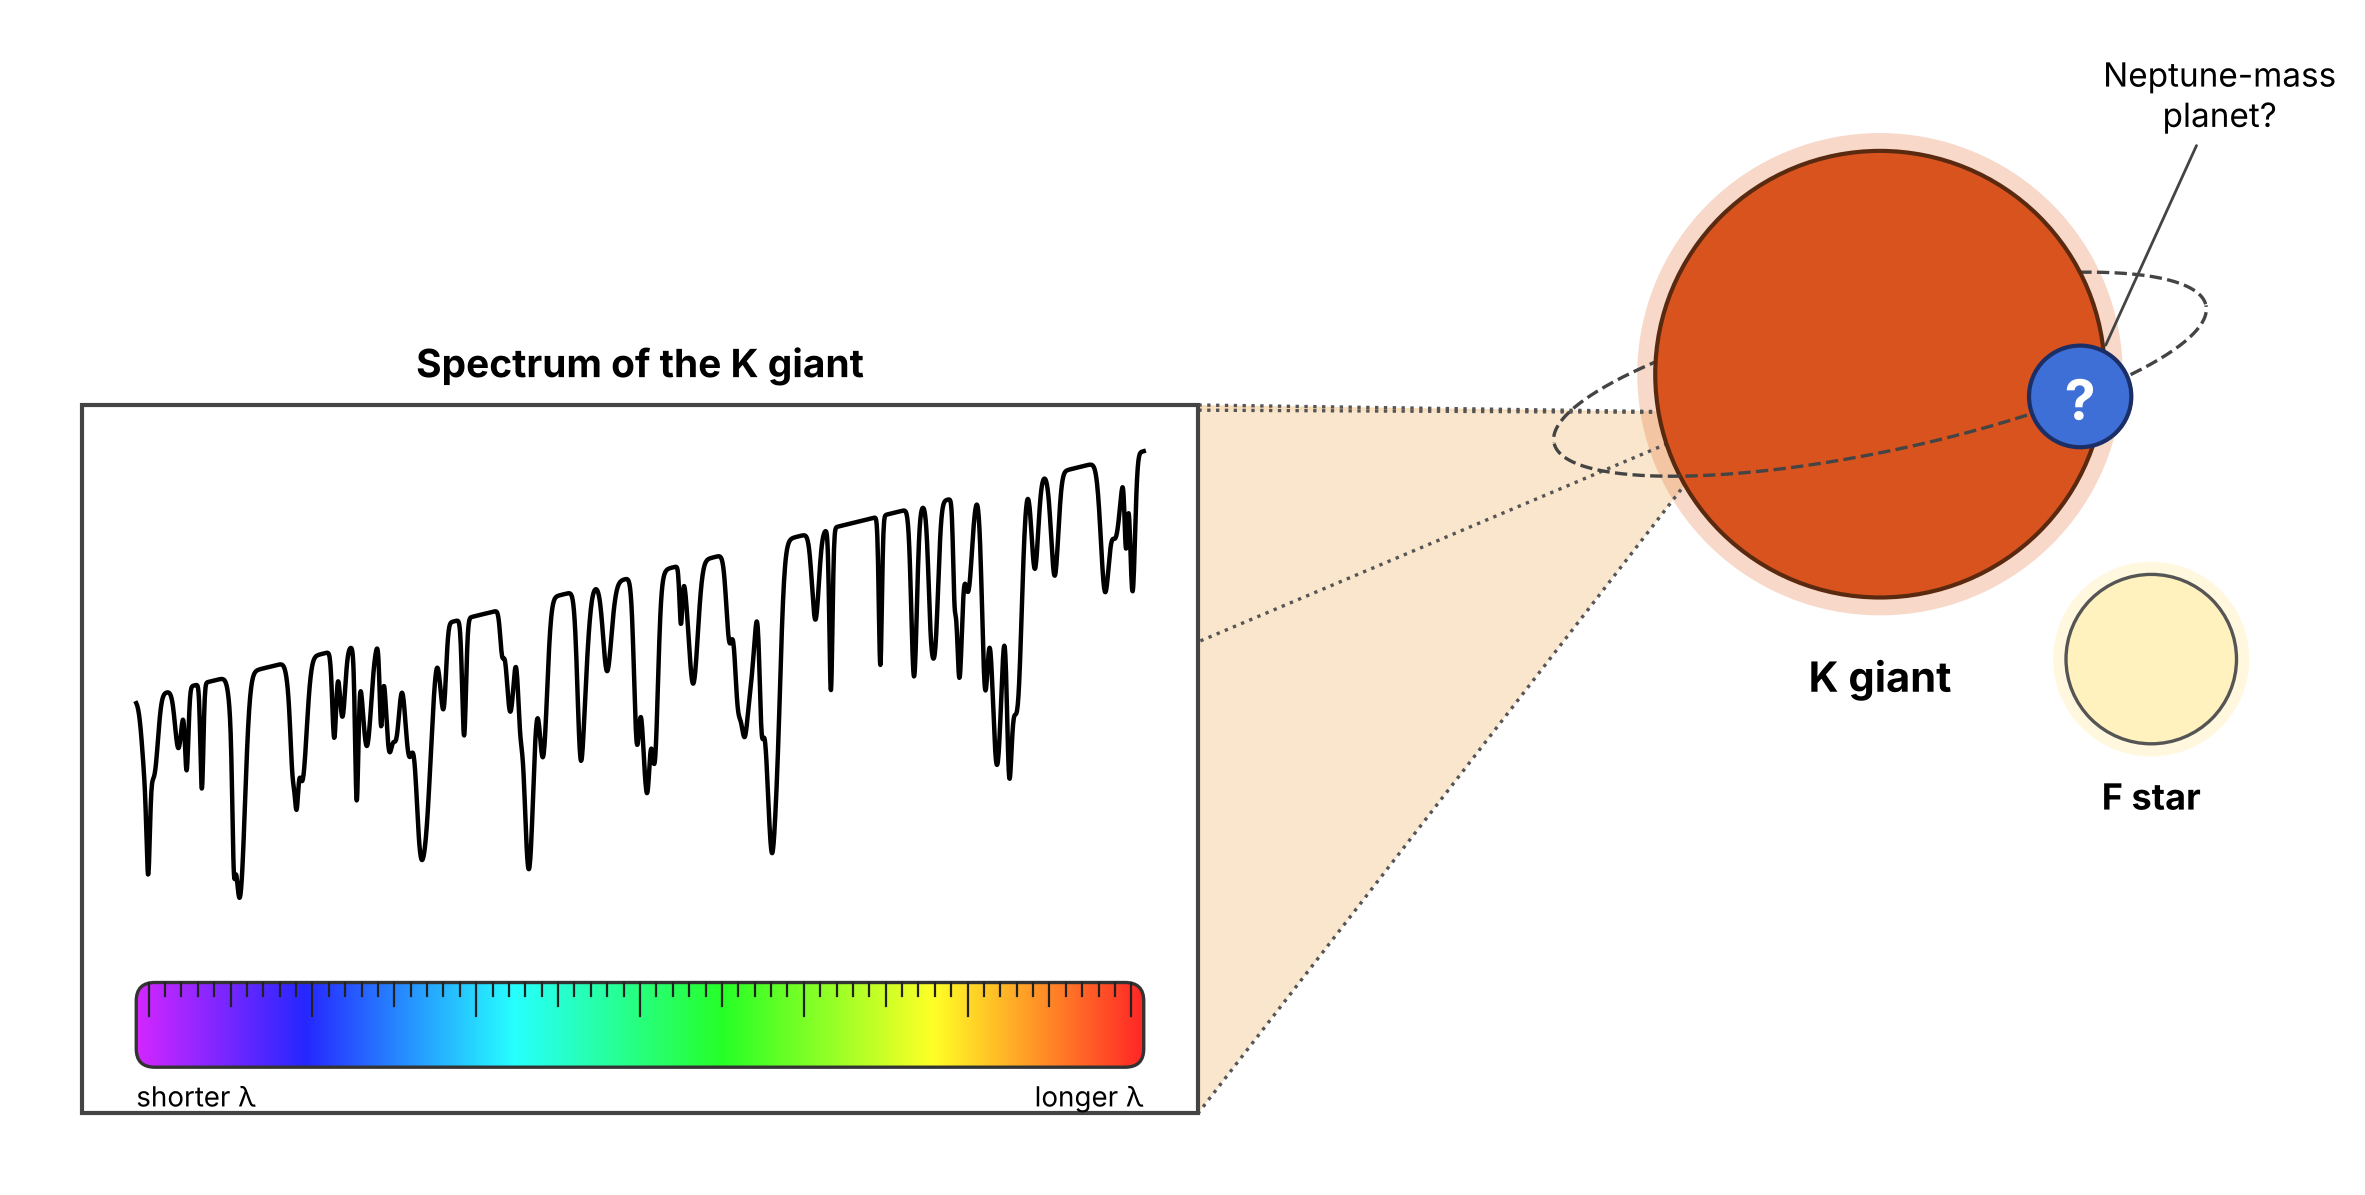
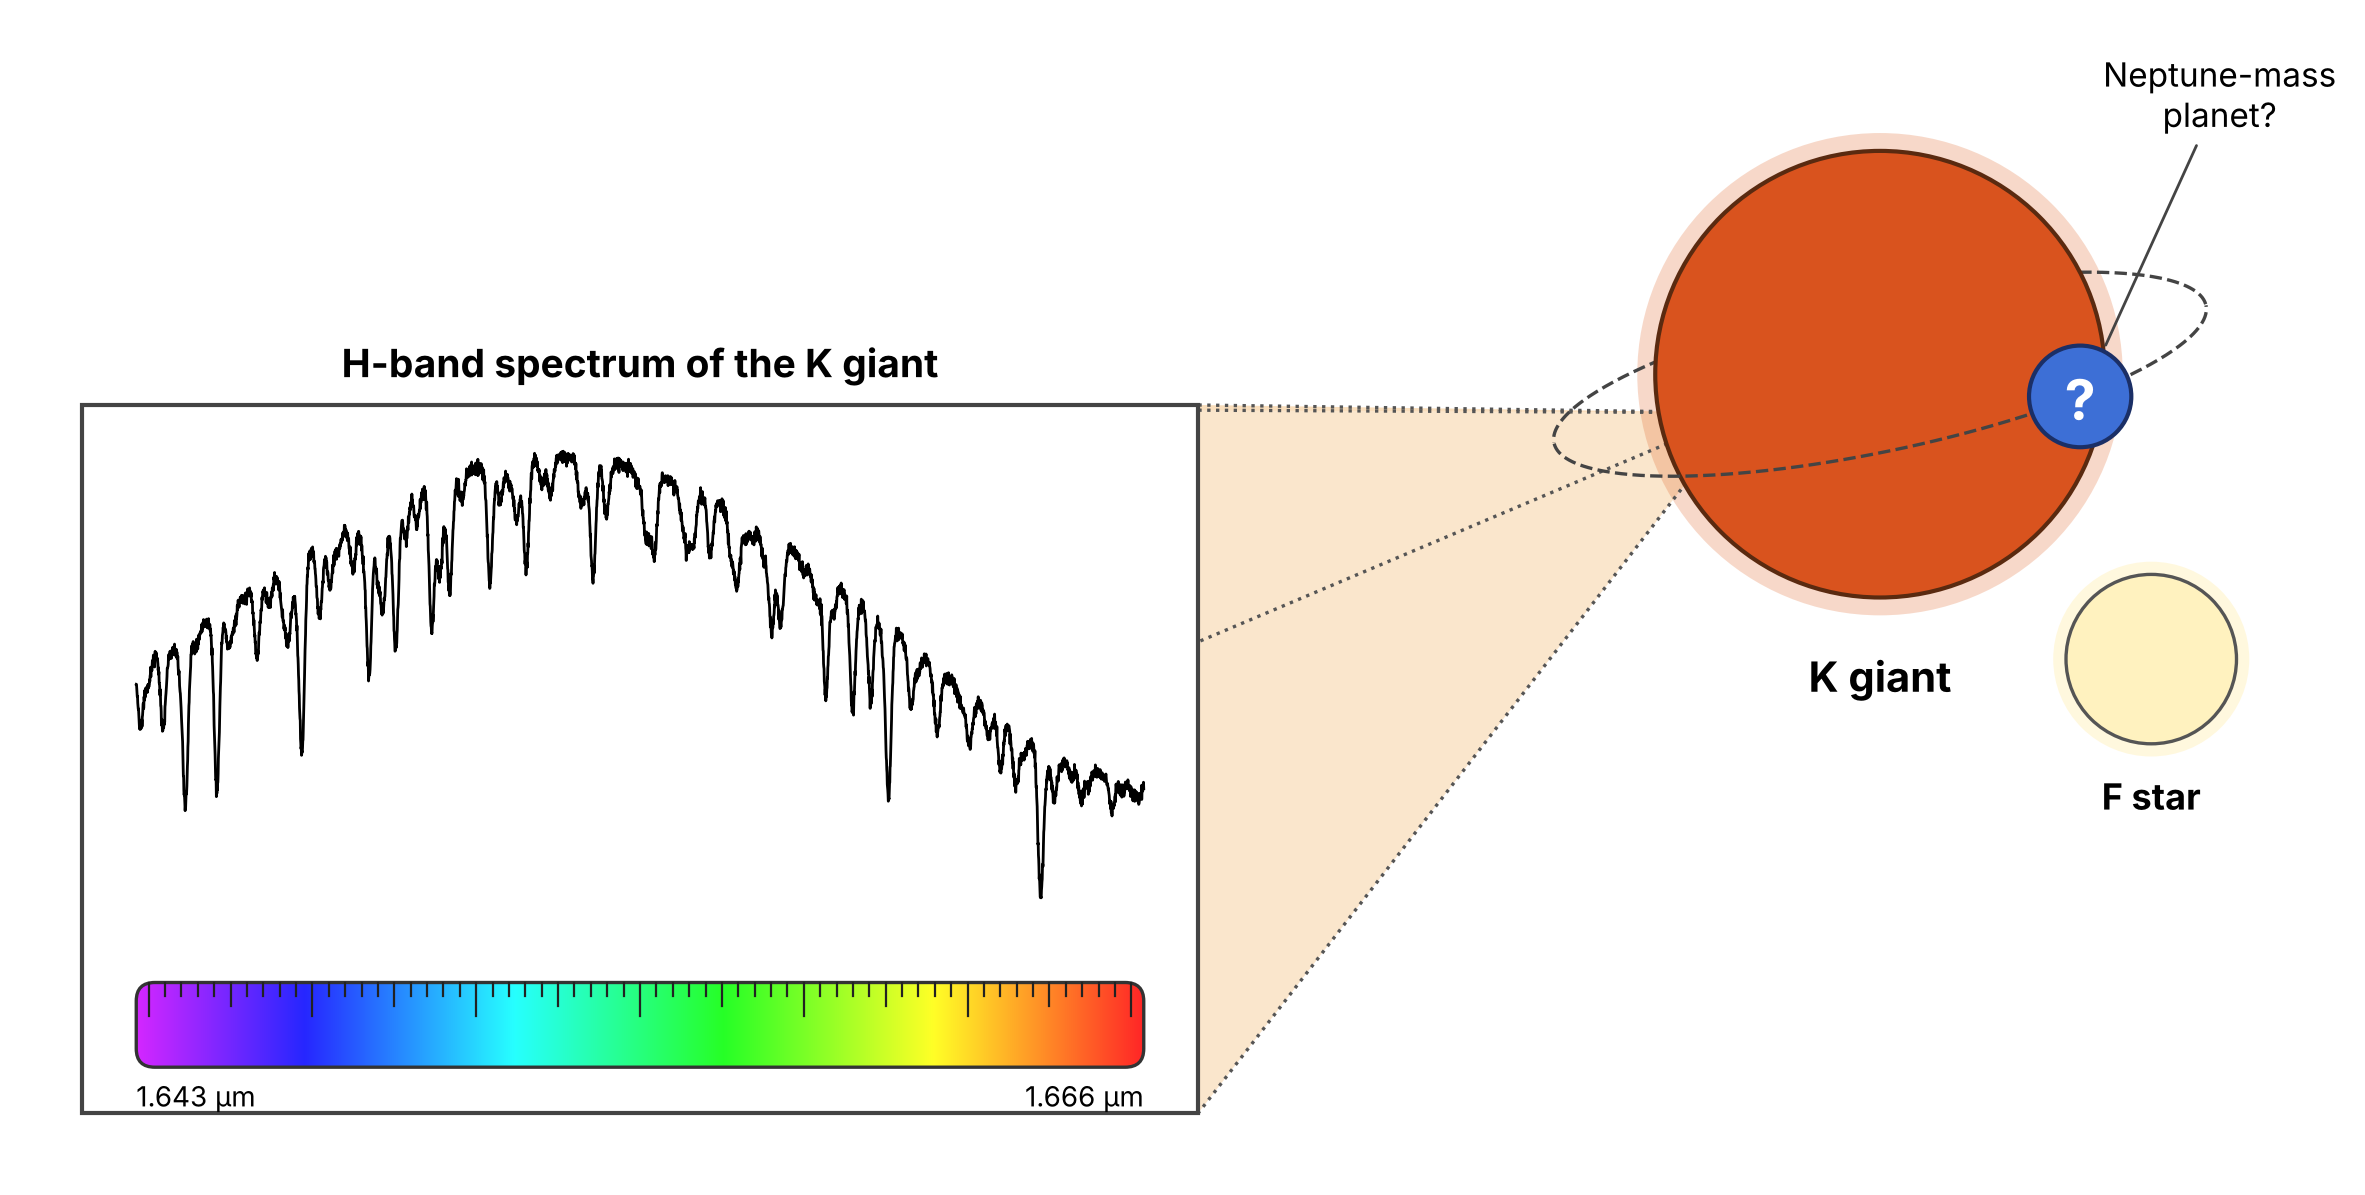
Use approximate H-band K giant spectrum in schematic
Claude-Session: https://claude.ai/code/session_01RcZ45XCFN51QkCQ5FVA6Ds

diff --git a/scripts/kgiant_spectrum.py b/scripts/kgiant_spectrum.py
@@ -53,25 +53,29 @@ for c in corners:
 
 ax.add_patch(Rectangle((bx0, by0), bw, bh, facecolor="white", edgecolor="#444", lw=1.5, zorder=2))
 
-# Synthetic K-giant spectrum: blackbody-ish continuum plus absorption lines
+# Approximate H-band spectrum of the K giant (shape traced from the data/model comparison)
 rng = np.random.default_rng(7)
-wl = np.linspace(400, 700, 3000)                        # nm, blue -> red
-cont = 0.55 + 0.4 * (wl - 400) / 300                     # cool star: brighter toward red
-flux = cont.copy()
-lines = rng.uniform(402, 698, 70)
-depths = rng.uniform(0.08, 0.35, 70)
-widths = rng.uniform(0.4, 1.4, 70)
-for l, d, w in zip(lines, depths, widths):
-    flux *= 1 - d * np.exp(-0.5 * ((wl - l) / w) ** 2)
-for l, d, w in [(430.8, 0.5, 1.5), (486.1, 0.45, 1.8), (517.0, 0.5, 1.6), (589.3, 0.55, 1.2), (656.3, 0.5, 1.6)]:
-    flux *= 1 - d * np.exp(-0.5 * ((wl - l) / w) ** 2)  # G band, Hβ, Mg b, Na D, Hα
+w0, w1 = 1.6432, 1.6657                                   # microns
+wl = np.linspace(w0, w1, 4000)
+knots_w = [1.6432, 1.646, 1.648, 1.650, 1.6535, 1.656, 1.658, 1.660, 1.6625, 1.6657]
+knots_f = [7000, 8300, 9500, 10300, 10500, 10200, 8800, 7400, 6200, 4800]
+flux = np.polyval(np.polyfit(knots_w, knots_f, 4), wl)    # smooth continuum (blaze-like hump)
+strong = [(1.6433, .12), (1.6438, .20), (1.6443, .40), (1.6450, .40), (1.6459, .15), (1.6469, .38),
+          (1.6473, .12), (1.6484, .30), (1.6487, .15), (1.6490, .25), (1.6498, .25), (1.6502, .20),
+          (1.6511, .20), (1.6519, .12), (1.6534, .20), (1.6555, .10), (1.6566, .10), (1.6574, .15),
+          (1.6586, .25), (1.6592, .25), (1.6596, .20), (1.6600, .40), (1.6605, .15), (1.6611, .12),
+          (1.6618, .12), (1.6625, .15), (1.6634, .45), (1.6637, .15), (1.6643, .12), (1.6650, .10)]
+weak = [(l, d) for l, d in zip(rng.uniform(w0, w1, 90), rng.uniform(0.02, 0.08, 90))]
+for l, d in strong + weak:
+    flux *= 1 - d * np.exp(-0.5 * ((wl - l) / 0.00006) ** 2)
+flux += rng.normal(0, 60, wl.size)                       # a little noise, like real data
 
 sx0, sx1 = bx0 + 0.35, bx0 + bw - 0.35
 sy0, sy1 = by0 + 1.4, by0 + bh - 0.3
-xs = sx0 + (wl - 400) / 300 * (sx1 - sx0)
+xs = sx0 + (wl - w0) / (w1 - w0) * (sx1 - sx0)
 ys = sy0 + (flux - flux.min()) / (flux.max() - flux.min()) * (sy1 - sy0)
-ax.plot(xs, ys, color="black", lw=1.6, zorder=3)
-ax.text(bx0 + bw / 2, by0 + bh + 0.12, "Spectrum of the K giant", ha="center", va="bottom", fontsize=14, weight="bold")
+ax.plot(xs, ys, color="black", lw=1.0, zorder=3)
+ax.text(bx0 + bw / 2, by0 + bh + 0.12, "H-band spectrum of the K giant", ha="center", va="bottom", fontsize=14, weight="bold")
 
 # Rainbow ruler underneath (violet on the left to red on the right, matching wavelength)
 rx0, ry0, rw, rh = sx0, by0 + 0.3, sx1 - sx0, 0.55
@@ -85,8 +89,8 @@ im.set_clip_path(ruler)
 for i, x in enumerate(np.linspace(rx0 + 0.08, rx0 + rw - 0.08, 61)):
     tick = 0.22 if i % 10 == 0 else (0.15 if i % 5 == 0 else 0.09)
     ax.plot([x, x], [ry0 + rh, ry0 + rh - tick], color="#222", lw=0.8, zorder=6)
-ax.text(rx0, ry0 - 0.08, "shorter λ", ha="left", va="top", fontsize=10)
-ax.text(rx0 + rw, ry0 - 0.08, "longer λ", ha="right", va="top", fontsize=10)
+ax.text(rx0, ry0 - 0.08, f"{w0:.3f} µm", ha="left", va="top", fontsize=10)
+ax.text(rx0 + rw, ry0 - 0.08, f"{w1:.3f} µm", ha="right", va="top", fontsize=10)
 
 out = __file__.replace("scripts/kgiant_spectrum.py", "images/kgiant_spectrum.png")
 fig.savefig(out, dpi=200, bbox_inches="tight", facecolor="white")
